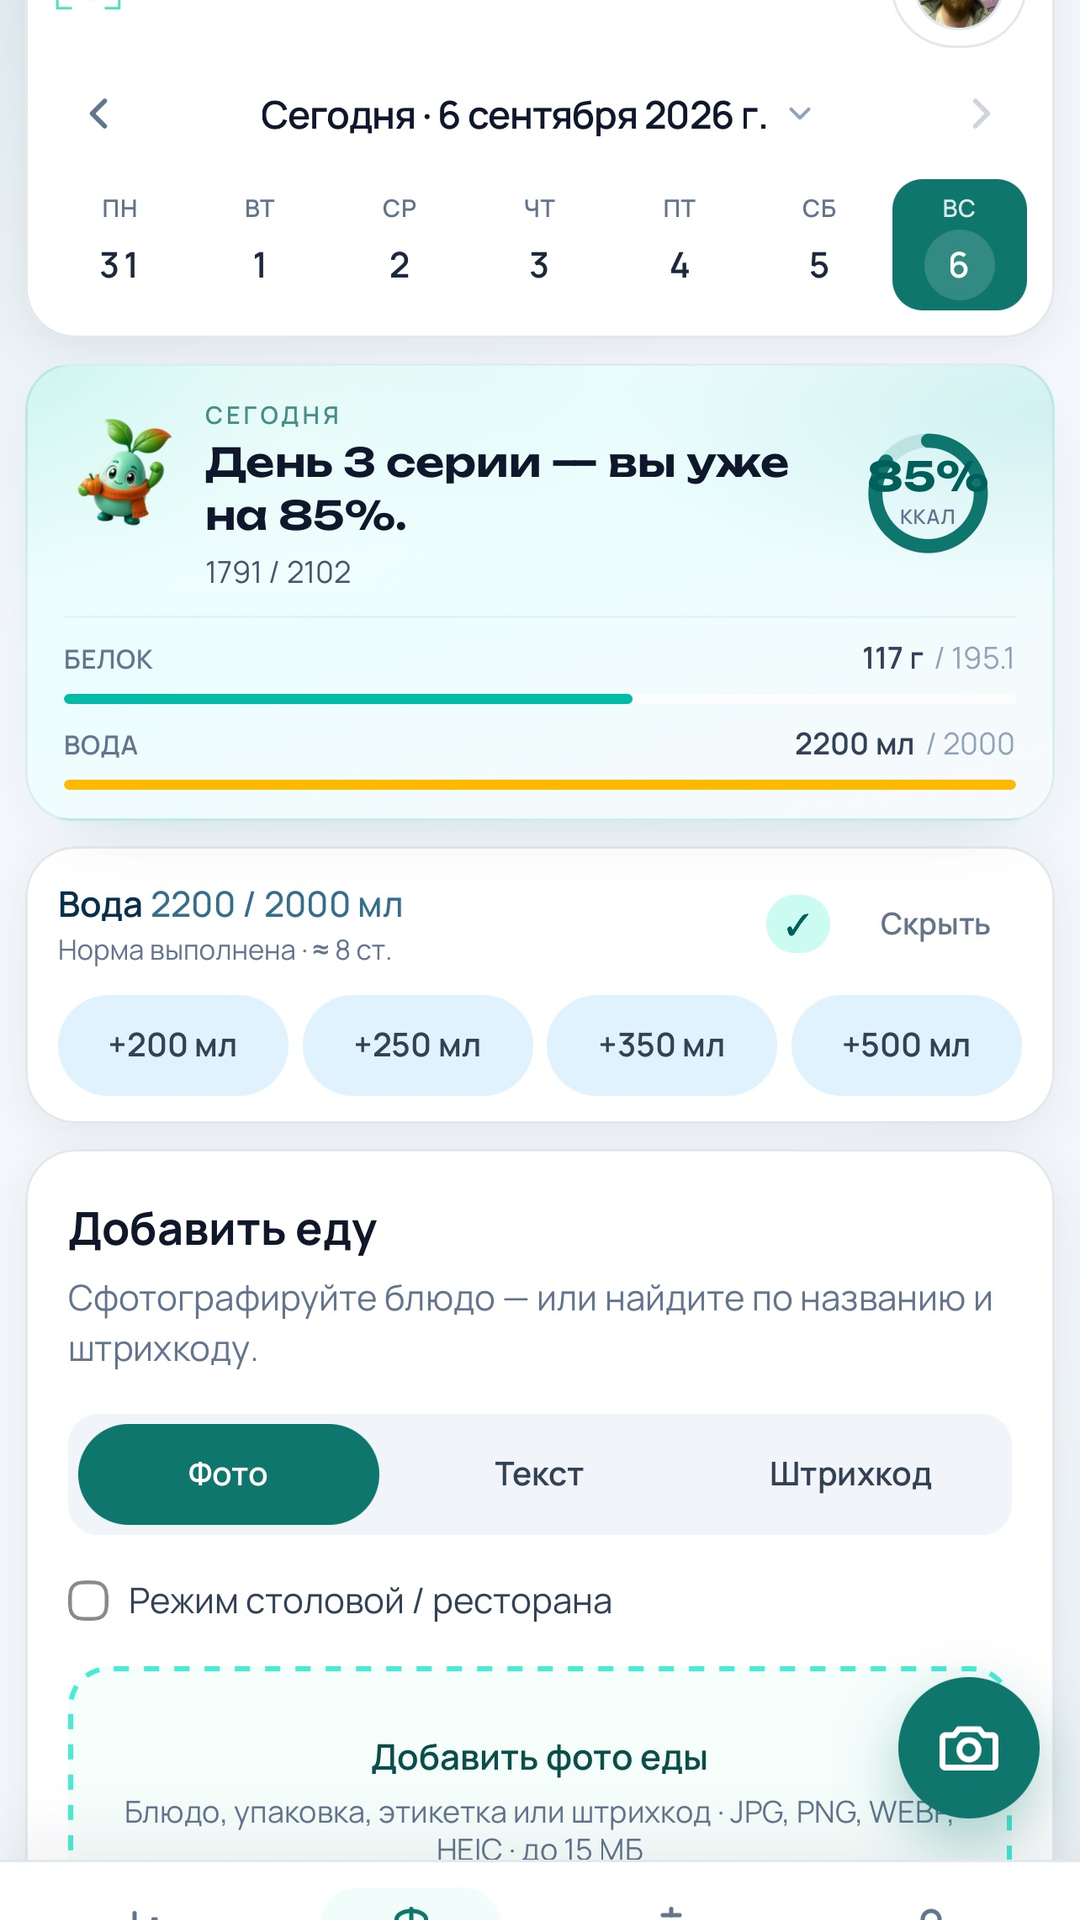
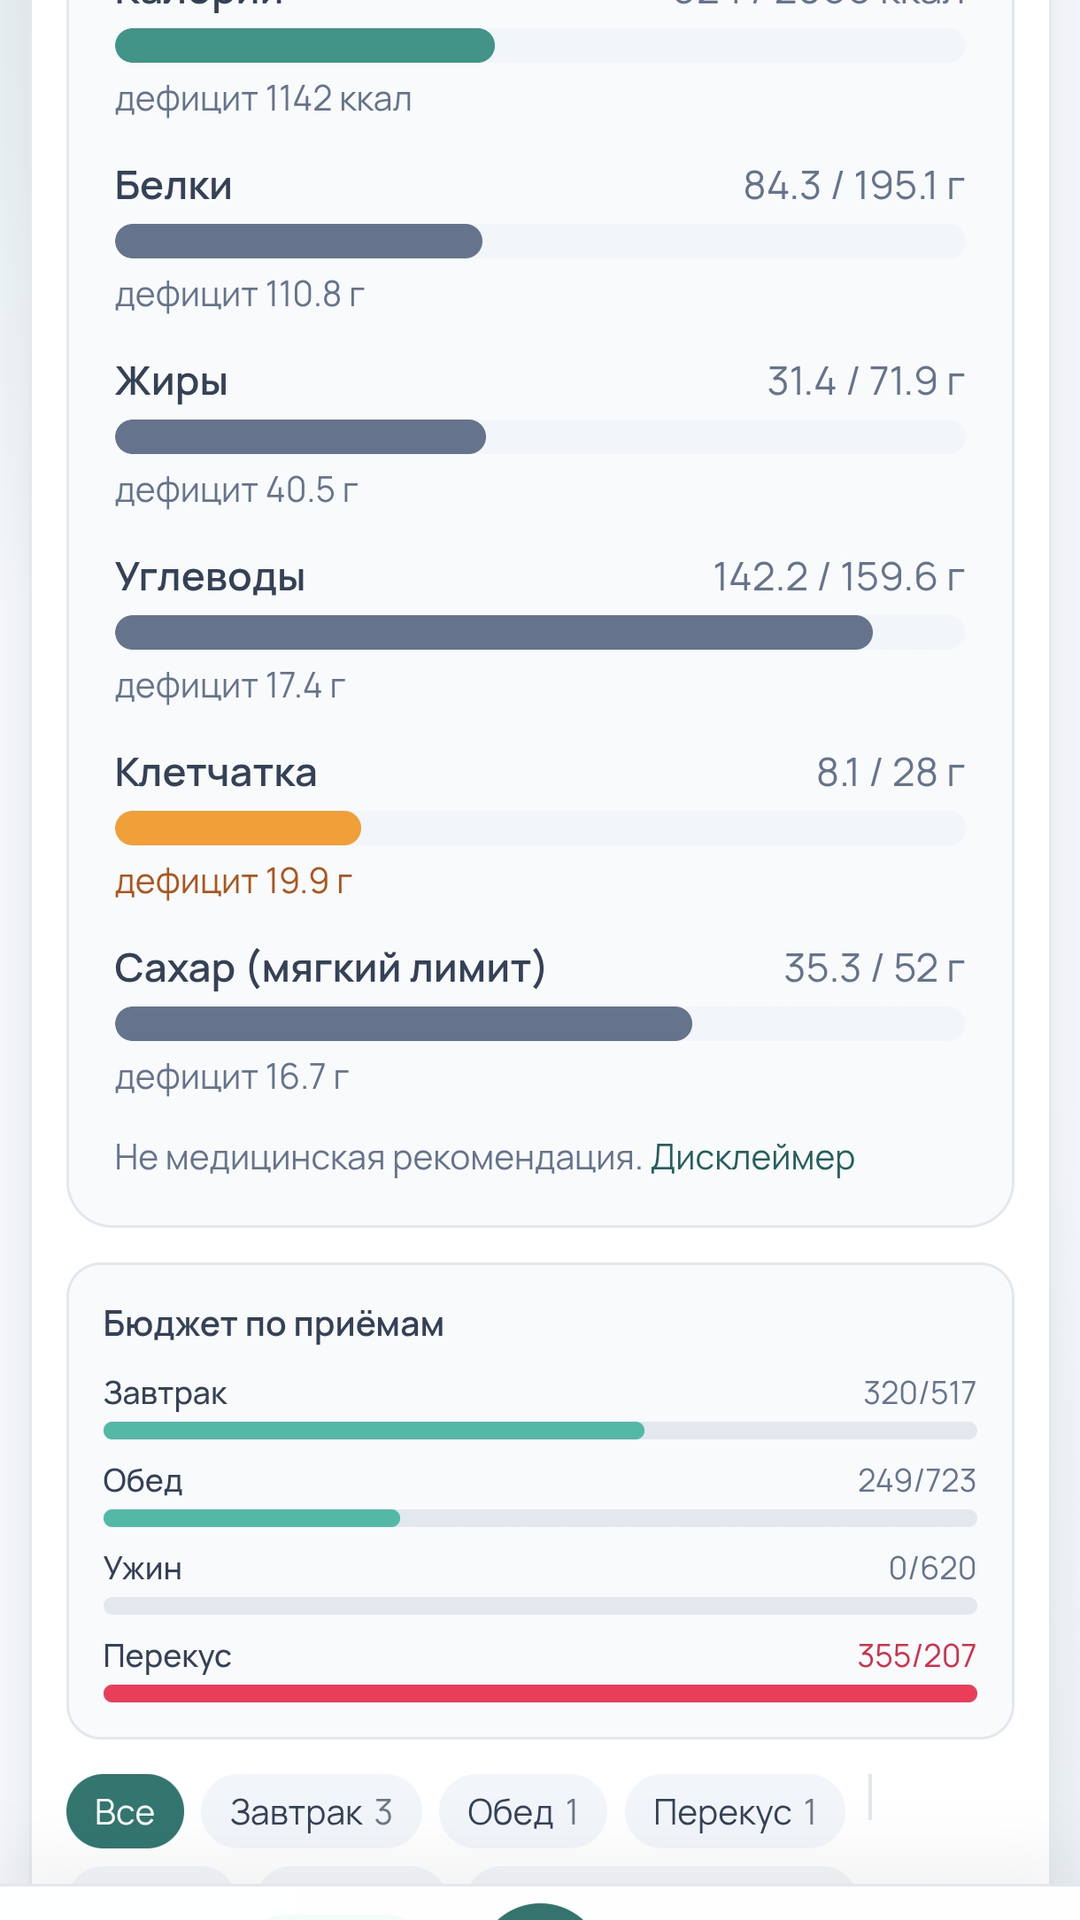
chore(rustore): скриншоты витрины с залом и обновлённым рационом
Новый submit: рацион КБЖУ, зал (неделя/месяц), стат 7/30/90;
профиль-норма опционально. Старые 01–03 в archive.

diff --git a/rustore/screenshots/README.md b/rustore/screenshots/README.md
@@ -6,29 +6,23 @@
 
 | Файл | Содержание |
 |------|------------|
-| `submit/01-ration.png` | **Продукт:** рацион — кольцо дня ~85%, вода, вход по фото |
-| `submit/02-check.png` | **Продукт/оффер:** проверка порции и КБЖУ перед сохранением |
-| `submit/03-stats.png` | **Продукт:** калории и БЖУ по дням |
+| `submit/01-ration.png` | **Продукт:** рацион — КБЖУ, клетчатка/сахар, бюджет по приёмам, вкладка «Зал» в табах |
+| `submit/02-gym.png` | **Продукт:** зал — неделя/месяц, силовые и кардио, повторить / шаблон |
+| `submit/03-stats.png` | **Продукт:** стат — 7/30/90, калории и БЖУ по дням, вода |
 | `submit/04-plan.png` | **Продукт:** план недели и недельный отчёт |
 | `submit/05-add-modes.png` | **Продукт:** «+» — фото / текст / штрихкод / вес |
+| `submit/06-profile-norm.png` | **Опционально:** расчёт нормы (пол, рост, активность) |
 
-**Рекомендация:** добавить кадр вкладки **«Зал»** (сессия / подходы / итог) и поставить
-его 3-м в Консоли (перед или вместо stats) — тексты витрины уже про питание + тренировки.
-См. `listing.ru.md` → «Скриншоты — приоритет кадров».
+В Консоль: **≥3**, лучше **01–05** по порядку (06 — по желанию).
 
 Иконка: `../icon-512-store.png` (512×512, без прозрачности).
 
-В Консоль: **≥3**, лучше 5–6 по смыслу выше.
-
 ## Источник
 
-Кадры подогнаны **cover** под 1080×1920 (без серых боковых полей).
-Status bar / watermark версии обрезаны. Личный вес и жёсткий «недобор»
-на первом экране не показываем. Маркетинговый CTA убран — пятый кадр тоже продукт.
-
-На `03-stats` полоска периода **7 / 30 / 90** должна быть целиком в кадре
-(без клипа активного чипа) и с равными сегментами.
+Кадры 01–03 и 06 — с устройства (v2.4.7), cover под 1080×1920 (без серых боковых полей).
+Status bar / watermark версии обрезаны сверху. 04–05 оставлены из предыдущего набора.
 
 ## Архив
 
-`archive/` — старые/сырые кадры. **Не загружать** в Консоль.
+`archive/` — старые/сырые кадры, в т.ч. `pre-2026-09-24-*` и `2026-09-24-*-raw.jpg`.  
+**Не загружать** в Консоль.

diff --git a/rustore/listing.ru.md b/rustore/listing.ru.md
@@ -121,17 +121,16 @@ splash и камера. Без сети — фирменная заглушка,
 
 Первые два кадра видны в поиске. Рекомендуемый набор (9:16):
 
-| # | Смысл |
-|---|--------|
-| 1 | Рацион: кольцо дня, вода, вход по фото |
-| 2 | Проверка порции и КБЖУ |
-| 3 | **Зал:** сессия / подходы / итог (обязательно добавить) |
-| 4 | Статистика калорий и БЖУ |
-| 5 | План недели / покупки |
-| 6 | «+»: фото, текст, штрихкод, вода, вес |
+| # | Смысл | Файл |
+|---|--------|------|
+| 1 | Рацион: КБЖУ и бюджет приёмов | `submit/01-ration.png` |
+| 2 | **Зал:** неделя/месяц, силовые и кардио | `submit/02-gym.png` |
+| 3 | Статистика: калории и БЖУ | `submit/03-stats.png` |
+| 4 | План недели | `submit/04-plan.png` |
+| 5 | «+»: фото, текст, штрихкод, вес | `submit/05-add-modes.png` |
+| 6 | (опц.) Расчёт нормы в профиле | `submit/06-profile-norm.png` |
 
-Готовые файлы без зала пока в `rustore/screenshots/submit/` (01–05).  
-Для обновления витрины снимите кадр вкладки «Зал» и поставьте его **3-м** (или 2-м, если хотите сильнее акцент на фитнес).
+Готовые файлы в `rustore/screenshots/submit/`. В Консоль загружайте **01–05** по порядку.
 
 ---
 
